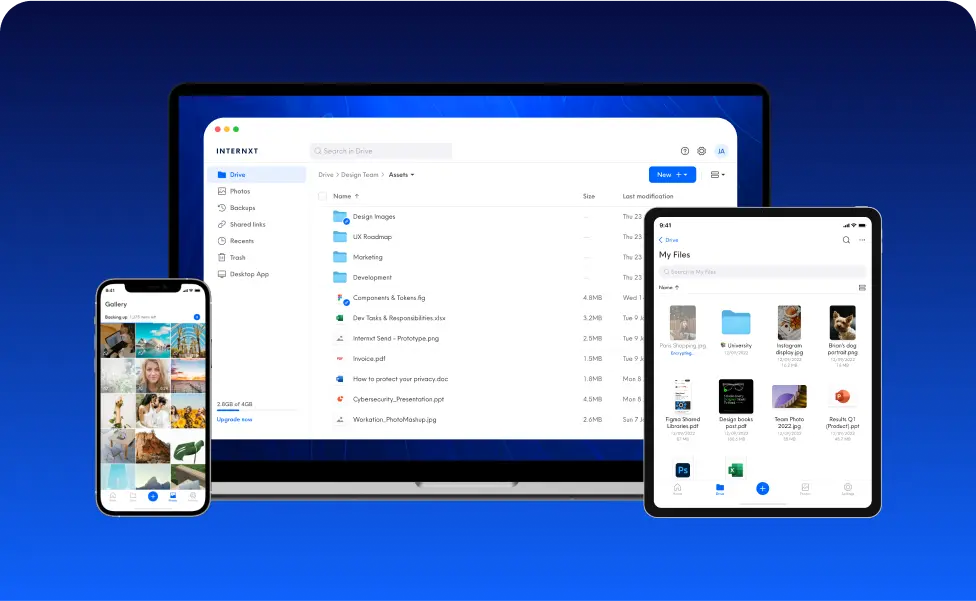
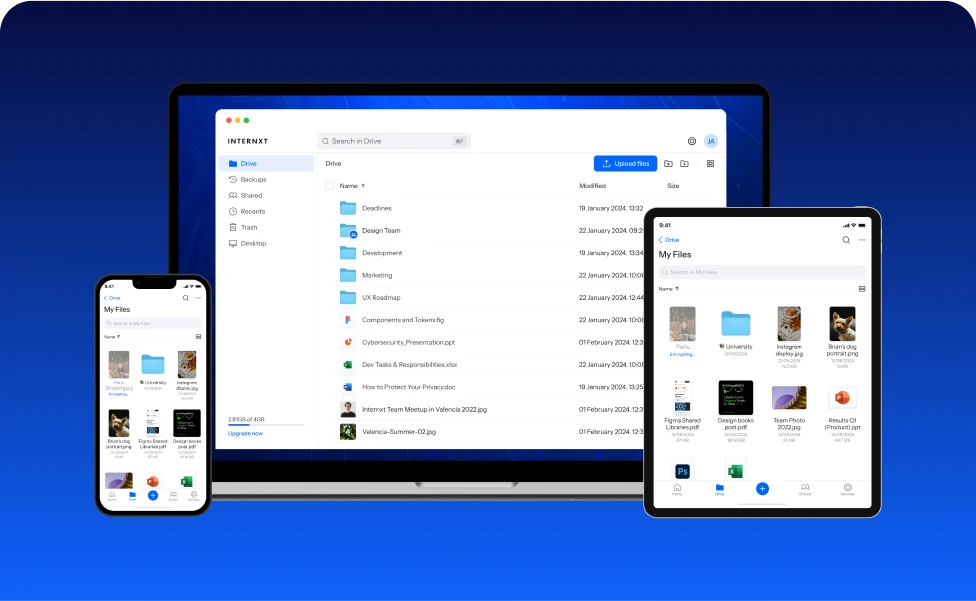
feat: update media-area images

diff --git a/src/components/home/components/DriveSidenav.tsx b/src/components/home/components/DriveSidenav.tsx
@@ -1,4 +1,4 @@
-import { Clock, ClockCounterClockwise, FolderSimple, Link, Trash, Users } from '@phosphor-icons/react';
+import { Clock, ClockCounterClockwise, FolderSimple, Trash, Users } from '@phosphor-icons/react';
 import React from 'react';
 
 const driveItems = [
@@ -11,12 +11,8 @@ const driveItems = [
     icon: ClockCounterClockwise,
   },
   {
-    item: 'Shared with me',
+    item: 'Shared',
     icon: Users,
-  },
-  {
-    item: 'Shared links',
-    icon: Link,
   },
   {
     item: 'Recents',
